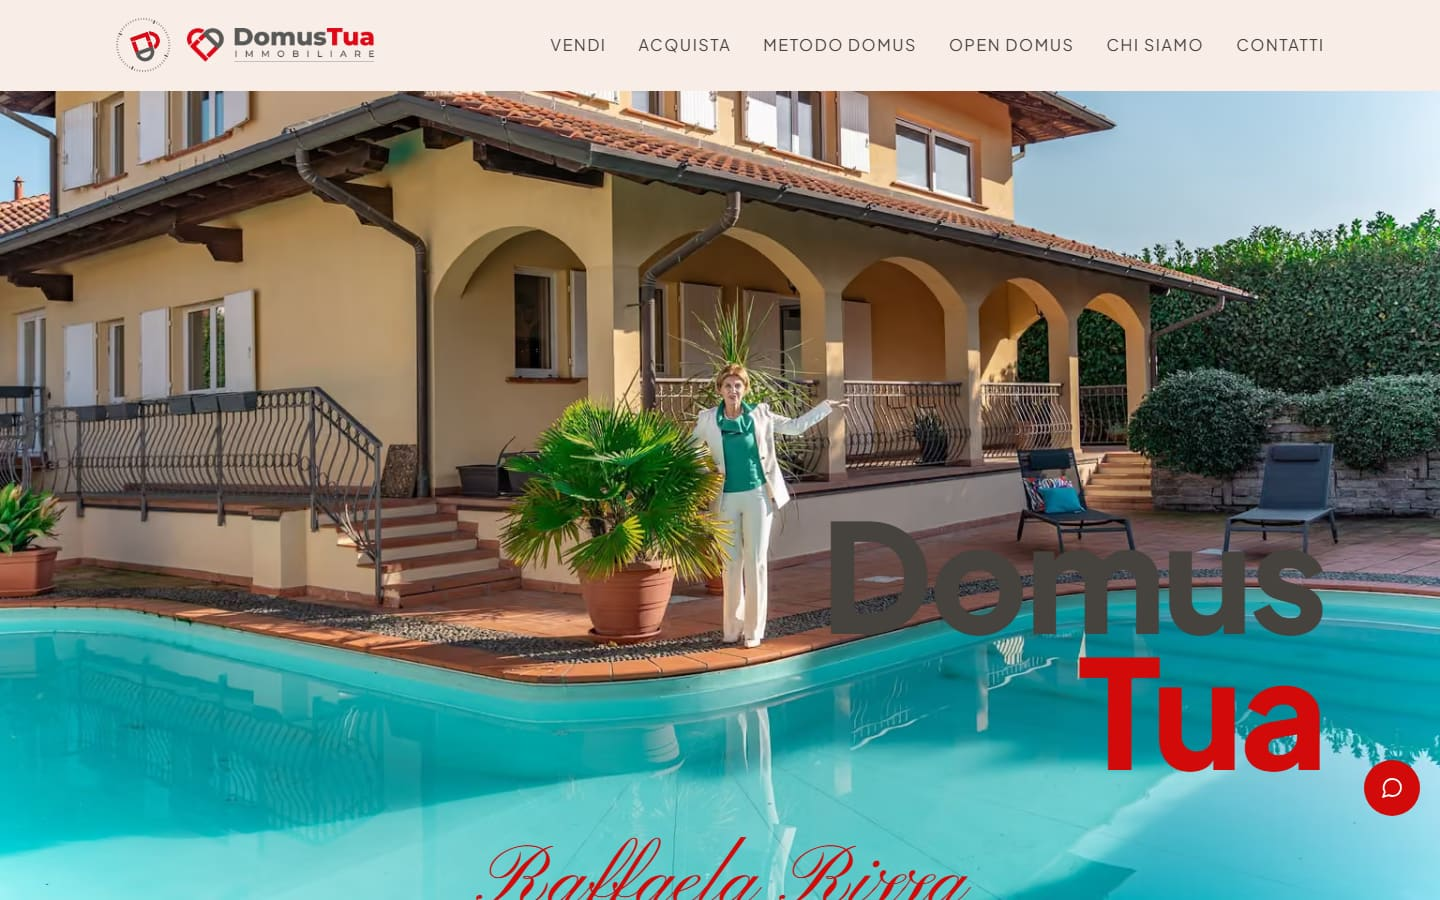
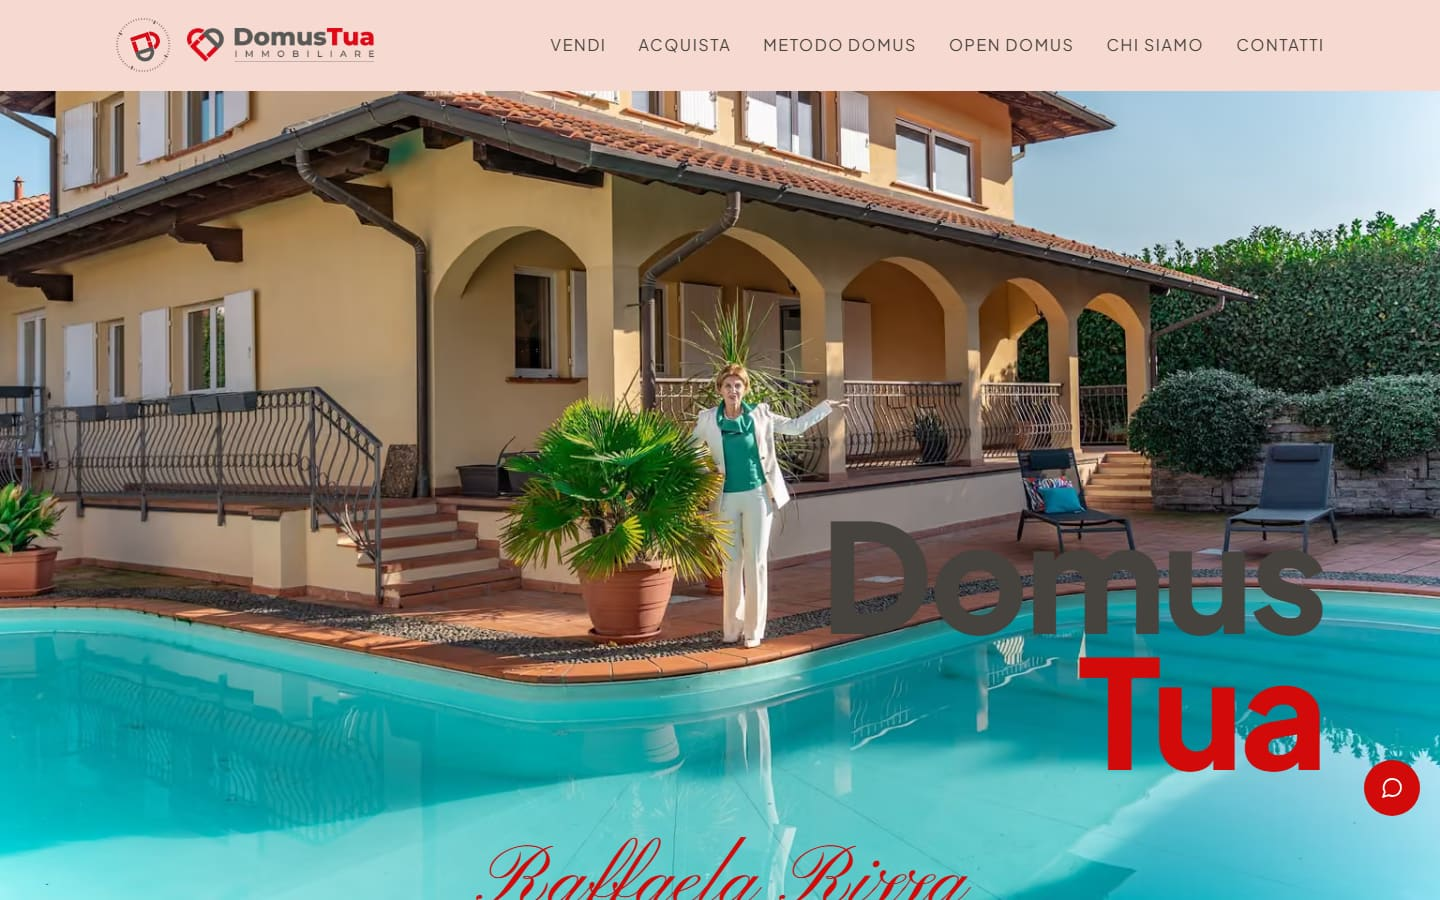
feat(carta): la carta rosa tramonto e le scritte sopra le foto nel grigio del lockup (A51, A56)
Alberto, 22 settembre 2026, pomeriggio, guardando il dev server: «lo sfondo è
ancora bianco, quando avevamo detto di metterlo sul rosa tramonto» (A51, le
parole di stamattina: «rendilo lievemente sul rosso rosa, tipo tramonto ma
opaco e piu chiaro di un tramonto») e «le scritte bianche sopra le immagini,
mettile di colore grigio, come quello della hero della scritta "domus"» (A56).

A51, la carta. Tre passi in un pomeriggio: #f9ede8 («manca ancora lo sfondo
del colore»), #f9e6e0 («è ancora troppo bianco»), e infine `--color-cream`
#f6d9d0, rosa pesca opaco e chiaro (inchiostro 7,3:1), con la famiglia:
`--color-cream-deep` #f2cfc5, `--color-paper` #fdf1ec, `--color-line` #e9c9c0;
`--color-stone` scende a #625d56 (5:1, la pietra di prima faceva 4,3). Sul
rosa il rosso vivo #d20a0a fa 4,2:1 sui testi piccoli, e a11y.spec lo diceva su
ogni rotta: gli occhielli, le etichette e i link a 16 px, i corpi e i numeri
non display in rosso e il bottone a testo rosso passano al rosso cupo #a30707
(6,1:1), che è già il rosso dei testi piccoli sull'avorio (PRODUCT.md); titoli,
«Tua», corsivi e bottoni pieni restano nel rosso vivo. Con la carta cambiano
`--background`, il `themeColor` di layout.tsx, l'avorio di tinte.mjs,
cielo.mjs e foto-alte.mjs (tinte.json rigenerato: i due attici e /cookie ora
dichiarano l'avorio, sotto il cancello di D123 — tinte.test segue il numero),
il sidecar .impeccable/design.json, tinte.test e le costanti degli e2e (a11y,
[…]

diff --git a/e2e/a28.spec.ts b/e2e/a28.spec.ts
@@ -21,9 +21,11 @@ const INK = "rgb(70, 66, 61)";
 /** La grafite del lead (`--color-graphite`) ha lo stesso valore dell'inchiostro. */
 const GRAFITE = "rgb(70, 66, 61)";
 const ROSSO = "rgb(210, 10, 10)";
-const CREAM_DEEP = "rgb(246, 233, 225)";
+/** A51 (22 set.): sulla carta rosa pesca l'occhiello (16 px) è nel rosso cupo, il rosso dei testi piccoli sull'avorio. */
+const ROSSO_CUPO = "rgb(163, 7, 7)";
+const CREAM_DEEP = "rgb(242, 207, 197)";
 /** L'avorio della carta, in RGB: i pixel sotto le scritte devono essere questo, ±3 per canale (A46). */
-const AVORIO_RGB = [249, 237, 232] as const;
+const AVORIO_RGB = [246, 217, 208] as const;
 /** D124: dove `tinte.json` dichiara l'avorio, la pagina spedisce un token. A46 (21 set. 2026): col
     cielo mascherato il riquadro si vede attraverso la foto, quindi il token è il FONDO PAGINA. */
 const TOKEN_ALTA = "--color-cream";
@@ -254,7 +256,7 @@ test.describe("la testa", () => {
           expect(g.solid!.top, `${lang}: il bottone non sta in basso`).toBeGreaterThan(g.h1!.bottom);
           // I colori della rivista (A46), e nessuna ombra (D184).
           expect(g.stili.h1?.color, `${lang}: l'H1 non è inchiostro`).toBe(INK);
-          expect(g.stili.eyebrow?.color, `${lang}: l'occhiello non è rosso`).toBe(ROSSO);
+          expect(g.stili.eyebrow?.color, `${lang}: l'occhiello non è nel rosso cupo (A51)`).toBe(ROSSO_CUPO);
           expect(g.stili.lead?.color, `${lang}: il lead non è grafite`).toBe(GRAFITE);
           if (tinte[rotta].trattamento === "testa" || g.stili.script) expect(g.stili.script?.color, `${lang}: la calligrafia non è rossa`).toBe(ROSSO);
           for (const z of ["h1", "eyebrow", "lead", "ghost", "script", "solid"] as const) if (g.stili[z]) expect(g.stili[z]!.shadow, `${lang}: ${z} porta un'ombra (D184)`).toBe("none");
@@ -275,7 +277,7 @@ test.describe("la testa", () => {
           // Il WebP col cielo trasparente dove c'è (A46), altrimenti la sorgente.
           expect(g.currentSrc ?? "", `${lang}: la foto montata non è quella di tinte.json`).toContain(encodeURIComponent(tinte[rotta].cielo.file ?? tinte[rotta].file));
           // I fondi: il riquadro è la carta, la scatola della foto porta il placeholder (la tinta alta, D125), lo spazio sopra è nudo.
-          expect(g.fondoRiquadro, `${lang}: il riquadro non è la carta (A46)`).toBe(rgb("#f9ede8"));
+          expect(g.fondoRiquadro, `${lang}: il riquadro non è la carta (A46)`).toBe(rgb("#f6d9d0"));
           expect(g.fondoFoto, `${lang}: la scatola della foto non porta la tinta di attesa (D125)`).toBe(await tintaAttesa(page, rotta));
           expect(g.fondoStrato, `${lang}: lo strato ha un fondo: colorerebbe lo spazio sotto la foto (A48)`).toBe("rgba(0, 0, 0, 0)");
           expect(g.fondoPagina, `${lang}: lo spazio sopra la foto ha un fondo (A48: niente velo)`).toBe("rgba(0, 0, 0, 0)");
@@ -632,7 +634,7 @@ test.describe("sotto lg", () => {
       // I colori della rivista anche qui (A46).
       expect(g.stili.h1?.color).toBe(INK);
       expect(g.stili.lead?.color).toBe(GRAFITE);
-      expect(g.stili.eyebrow?.color).toBe(ROSSO);
+      expect(g.stili.eyebrow?.color).toBe(ROSSO_CUPO);
       expect(g.sizes).toBe(SIZES_TESTA);
       await page.evaluate(() => window.scrollTo({ top: 300, behavior: "instant" }));
       await page.waitForTimeout(400);
@@ -692,7 +694,7 @@ test.describe("senza JS e con moto ridotto", () => {
         expect(g.corridoi).toBe(0);
         expect(g.stili.h1!.color).toBe(INK);
         expect(g.stili.lead!.color).toBe(GRAFITE);
-        expect(g.fondoRiquadro).toBe(rgb("#f9ede8"));
+        expect(g.fondoRiquadro).toBe(rgb("#f6d9d0"));
         expect(Math.abs(g.blocco!.top)).toBeLessThanOrEqual(1);
         await page.evaluate(() => window.scrollTo({ top: 500, behavior: "instant" }));
         await page.waitForTimeout(400);
@@ -991,11 +993,11 @@ test.describe("le tinte", () => {
     expect(scatola, "la scatola della foto non prende la tinta alta").toBe(await tintaAttesa(page, "/vendi"));
     expect(await page.locator("[data-testa-strato]").first().evaluate((el) => getComputedStyle(el).backgroundColor), "lo strato ha un fondo: colorerebbe lo spazio sotto la foto (A48)").toBe("rgba(0, 0, 0, 0)");
     const riquadro = await page.locator("[data-dive-zoom]").first().evaluate((el) => getComputedStyle(el).backgroundColor);
-    expect(riquadro, "il riquadro della testa non è la carta (A46)").toBe(rgb("#f9ede8"));
+    expect(riquadro, "il riquadro della testa non è la carta (A46)").toBe(rgb("#f6d9d0"));
     // Su un interno la tinta misurata (D123) resta sullo strato e la carta resta avorio.
     await goto("/chi-siamo");
     expect(await page.locator("[data-testa-foto-box]").first().evaluate((el) => getComputedStyle(el).backgroundColor)).toBe(await tintaAttesa(page, "/chi-siamo"));
-    expect(await page.locator("[data-dive-zoom]").first().evaluate((el) => getComputedStyle(el).backgroundColor)).toBe(rgb("#f9ede8"));
+    expect(await page.locator("[data-dive-zoom]").first().evaluate((el) => getComputedStyle(el).backgroundColor)).toBe(rgb("#f6d9d0"));
     await goto("/vendi");
     const modulo = await page.evaluate(() => {
       const el = document.createElement("div");
@@ -1005,7 +1007,7 @@ test.describe("le tinte", () => {
       el.remove();
       return c;
     });
-    expect(modulo).toBe(rgb("#f6e9e1"));
+    expect(modulo).toBe(rgb("#f2cfc5"));
   });
 });
 

diff --git a/app/components/motion/ChiusuraFoto.tsx b/app/components/motion/ChiusuraFoto.tsx
@@ -18,7 +18,14 @@
    clip-path). Il clip si scrive con `clipSides` (spigolo vivo, C01). Con reduced-motion, sotto la
    soglia di motion e senza JS non succede niente: la foto finisce dritta, la pagina è completa.
    Il componente non ha DOM suo: uno span nascosto per trovare la testa che lo monta (PageHeroTesta
-   resta server, senza hook: a28-fallback.test). */
+   resta server, senza hook: a28-fallback.test).
+   A47 + A53 (Alberto, 22 set. 2026, pomeriggio, con lo screenshot del fondo della facciata: «qua, la
+   foto, come nelle altre pagine con le foto a schermo intero no bg, deve rimpicciolirsi alla fine»):
+   lo monta anche la finestra di Open Domus in home (OpenDomus.tsx, dentro la cornice dopo il
+   capitolo): lì lo strato è la cornice `.dt-od_cornice`, la scatola della foto `.dt-od_window` e lo
+   spazio sopra il capitolo `.dt-od_content`; la sezione porta `data-od` e `data-sopra="foto"`. La
+   scatola sta dentro lo stage sticky del corridoio, ma la chiusura parte quando lo stage è già
+   sganciato e a scala 1, e il clip sta sulla scatola, che non è antenata di nulla di sticky. */
 
 import { useRef } from "react";
 import { gsap, useGSAP } from "../../lib/motion/gsap";
@@ -36,13 +43,19 @@ export default function ChiusuraFoto() {
 
   useGSAP(
     () => {
-      const testa = ref.current?.closest<HTMLElement>("[data-testa]") ?? null;
-      const strato = testa?.querySelector<HTMLElement>("[data-testa-strato]") ?? null;
-      const foto = testa?.querySelector<HTMLElement>("[data-testa-foto-box]") ?? null;
-      const sopra = testa?.querySelector<HTMLElement>(".dt-testa_sopra") ?? null;
+      const testa = ref.current?.closest<HTMLElement>("[data-testa], [data-od]") ?? null;
+      // A47: nella finestra di Open Domus (`data-od`) le tre scatole hanno i nomi della finestra.
+      const od = testa?.hasAttribute("data-od") ?? false;
+      const strato = testa?.querySelector<HTMLElement>(od ? ".dt-od_cornice" : "[data-testa-strato]") ?? null;
+      const foto = testa?.querySelector<HTMLElement>(od ? ".dt-od_window" : "[data-testa-foto-box]") ?? null;
+      const sopra = testa?.querySelector<HTMLElement>(od ? ".dt-od_content" : ".dt-testa_sopra") ?? null;
       if (!testa || !strato || !foto) return;
       const mm = gsap.matchMedia();
-      mm.add(MQ.motionOk, () => {
+      // Nella finestra (A47) sotto lg il clip della scatola è dell'otturatore di spec §3.10 (OpenDomus.tsx,
+      // ramo `phone`): due padroni sullo stesso clip-path sono uno di troppo, e la chiusura lì non si arma.
+      mm.add({ motionOk: MQ.motionOk, lg: MQ_LG }, (ctx) => {
+        const c = ctx.conditions as { motionOk: boolean; lg: boolean };
+        if (!c.motionOk || (od && !c.lg)) return;
         const cornice = () => (window.matchMedia(MQ_LG).matches ? CORNICE_LG : window.matchMedia(MQ.desktop).matches ? CORNICE_TAB : CORNICE_PHONE);
         // Lo spazio sopra sta SULLA foto (da lg, con la banda scura): la chiusura parte quando il suo fondo passa la
         // cima del viewport, così nessuna scritta bianca resta sulla carta scoperta dal ritaglio. Altrimenti parte

diff --git a/e2e/home.spec.ts b/e2e/home.spec.ts
@@ -1171,6 +1171,23 @@ test.describe("la finestra di Open Domus", () => {
       expect(dopo.winH / dopo.vh, "la finestra non è alta più di due schermi").toBeGreaterThan(2);
       expect(dopo.cTop, "il capitolo non posa sulla metà bassa della foto (A47)").toBeGreaterThan(dopo.winTop + 0.5 * dopo.winH - 2);
       expect(dopo.cBottom, "il capitolo esce dalla foto").toBeLessThanOrEqual(dopo.winBottom + 2);
+      // A53 sulla finestra (Alberto, 22 set. 2026, pomeriggio: «qua, la foto, come nelle altre pagine con le foto a
+      // schermo intero no bg, deve rimpicciolirsi alla fine»): con una coda libera di almeno un quarto di viewport
+      // sotto il capitolo, quando il fondo della foto arriva al 10 % del viewport la scatola sta nella cornice 8/22.
+      const coda = dopo.winBottom - dopo.cBottom;
+      if (coda >= 0.25 * dopo.vh) {
+        const fineFoto = await page.evaluate(() => document.querySelector("#open-domus .dt-od_window")!.getBoundingClientRect().bottom + window.scrollY);
+        await wheelTo(page, Math.round(fineFoto - 0.1 * geo.vh));
+        await page.waitForTimeout(1200);
+        const clip = await page.locator("#open-domus .dt-od_window").evaluate((el) => getComputedStyle(el).clipPath);
+        const lati = clip.match(/inset\(([^)]*)\)/)?.[1].split(/\s+/).map((v) => parseFloat(v)) ?? [];
+        expect(lati.length, `a fine coda la facciata non è ritagliata: ${clip}`).toBeGreaterThan(0);
+        const [alto, destra] = [lati[0], lati[1] ?? lati[0]];
+        expect(Math.abs(alto - 8), `cornice sopra ${alto} %`).toBeLessThanOrEqual(1);
+        expect(Math.abs(destra - 22), `cornice a destra ${destra} %`).toBeLessThanOrEqual(1);
+      } else {
+        expect(await page.locator("#open-domus .dt-od_window").evaluate((el) => getComputedStyle(el).clipPath), "coda corta: nessun clip").toBe("none");
+      }
       // A56 (22 set., pomeriggio): nel grigio del lockup, senza ombra, non più in bianco.
       const occhiello = page.locator("#open-domus .dt-od_content .eyebrow").first();
       await expect(occhiello).toHaveCSS("color", "rgb(70, 66, 61)");
@@ -1206,7 +1223,7 @@ test.describe("la finestra di Open Domus", () => {
       const i = (Math.round(y * k) * info.width + Math.round(x * k)) * info.channels;
       return [data[i], data[i + 1], data[i + 2]];
     };
-    const avorio = (p: number[]) => Math.abs(p[0] - 249) <= 3 && Math.abs(p[1] - 237) <= 3 && Math.abs(p[2] - 232) <= 3;
+    const avorio = (p: number[]) => Math.abs(p[0] - 246) <= 3 && Math.abs(p[1] - 217) <= 3 && Math.abs(p[2] - 208) <= 3;
     // A schermo intero lo stage sticky può stare qualche decina di px sopra il bordo (a 1440×900 la
     // finestra comincia a −84): si campiona la parte VISIBILE della finestra. Il cielo trasparente della
     // facciata è sottile in cima (le punte dei cipressi ai lati stanno a 0,121 dell'altezza della foto).

diff --git a/app/lib/__tests__/tinte.test.ts b/app/lib/__tests__/tinte.test.ts
@@ -58,7 +58,7 @@ const tinte = JSON.parse(leggi("app/lib/motion/tinte.json")) as Record<string, V
 /* I pavimenti di §4.3: assoluto = 4,5:1 con ink #46423d («nessuna sezione scura» detto con una
    cifra); di lavoro = 4,5:1 col rosso cupo #a30707 e con «Menu» grafite sulla barra. */
 const PAVIMENTI = { assoluto: 0.4241, lavoro: 0.5329 };
-const AVORIO = "#f9ede8";
+const AVORIO = "#f6d9d0";
 
 /* D124: il token che la pagina spedisce dove il JSON dichiara l'avorio, col suo valore in
    globals.css. A46: è il FONDO PAGINA, perché col cielo trasparente il riquadro non deve
@@ -215,7 +215,7 @@ describe("la tinta del placeholder e i dati dell'inquadratura (D187, §4)", () =
   });
 
   test("i pavimenti di chiarezza, sul valore che la pagina spedisce: nessuna sezione scura (§4.3, D124)", () => {
-    assert.equal(HEX_TOKEN_ALTA, "#f9ede8", "il token dell'avorio (A46: il fondo pagina) non vale più quel che valeva");
+    assert.equal(HEX_TOKEN_ALTA, "#f6d9d0", "il token dell'avorio (A46: il fondo pagina) non vale più quel che valeva");
     const scuro = lumaY(daHex("#aeaeae"));
     for (const [rotta, v] of Object.entries(tinte)) {
       const y = spedita(v.alta).y;
@@ -467,7 +467,16 @@ describe("il cielo mascherato delle foto alte (A46)", () => {
       const v = tinte[rotta];
       assert.deepEqual(v.cielo, { file: null, linea: 0, cima: 0 }, `${rotta}: è un interno`);
       assert.equal(existsSync(join(ROOT, "public", v.file.replace(/\.jpg$/, "-cielo.webp"))), false, `${rotta}: un WebP del cielo per un interno`);
-      assert.notEqual(v.alta.hex, "avorio", `${rotta}: senza cielo la tinta resta misurata (D123)`);
+      // D123: senza cielo la tinta è quella misurata, salvo che la sua distanza di valore dall'avorio stia sotto
+      // il cancello (CANCELLO_ALTA): allora la rotta dichiara l'avorio col numero. Con la carta rosa di A51
+      // (#f6d9d0, più scura del #f9f5ef di prima) i due attici stanno a 1,48 e dichiarano l'avorio: è la regola,
+      // non un'eccezione, e qui si pretende solo che il verdetto segua il numero.
+      assert.equal(
+        v.alta.hex === "avorio",
+        v.alta.avorio < CANCELLO_ALTA,
+        `${rotta}: la tinta alta dichiara ${v.alta.hex} con una distanza dall'avorio di ${v.alta.avorio}:1 (cancello ${CANCELLO_ALTA})`,
+      );
+      if (v.alta.hex === "avorio") assert.match(v.alta.misurato ?? "", /^#[0-9a-f]{6}$/, `${rotta}: manca la tinta misurata accanto all'avorio dichiarato`);
     }
     for (const rotta of ["/privacy", "/cookie"]) assert.deepEqual(tinte[rotta].cielo, { file: null, linea: 0, cima: 0 }, `${rotta}: i legali sono fermi`);
   });

diff --git a/app/globals.css b/app/globals.css
@@ -54,11 +54,11 @@
      paragrafo editoriale» — la gerarchia la fanno peso e misura. */
   --color-ink: #46423d;
   --color-graphite: #46423d;
-  --color-stone: #6b665f;
-  --color-line: #e8d8d0;
-  --color-cream: #f9ede8;
-  --color-cream-deep: #f6e9e1;
-  --color-paper: #fff9f6;
+  --color-stone: #625d56;
+  --color-line: #e9c9c0;
+  --color-cream: #f6d9d0;
+  --color-cream-deep: #f2cfc5;
+  --color-paper: #fdf1ec;
 
   /* Darks caldi (bordeaux/espresso) — profondità nelle sezioni scure, mai grigio/nero piatto */
   --color-espresso: #1c1512;
@@ -209,7 +209,7 @@
 }
 
 :root {
-  --background: #f9ede8;
+  --background: #f6d9d0;
   --foreground: #46423d;
 }
 
@@ -812,7 +812,10 @@ blockquote * {
   font-weight: 500;
   letter-spacing: 0.12em;
   text-transform: uppercase;
-  color: var(--color-red);
+  /* A51 (Alberto, 22 set. 2026: «è ancora troppo bianco»): sulla carta rosa pesca #f6d9d0 il rosso vivo
+     #d20a0a scende a 4,2:1 sui 16 px dell'occhiello; il rosso cupo, che è già il rosso dei testi piccoli
+     sull'avorio (PRODUCT.md), regge 6,1:1. Il rosso vivo resta ai titoli, al corsivo e ai bottoni. */
+  color: var(--color-red-dark);
 }
 
 .eyebrow::before {
@@ -1991,11 +1994,23 @@ html[data-hero-intro="short"] :is([data-hero-char], [data-hero-tchar], [data-her
 }
 
 /* --- cta: contorno rosso → pieno --- */
+/* A51 (Alberto, 22 set. 2026: «è ancora troppo bianco»): sulla carta rosa pesca #f6d9d0 il rosso vivo
+   #d20a0a regge 4,2:1, sotto il 4,5:1 dei testi normali (a11y.spec su ogni rotta): i testi PICCOLI in
+   rosso — etichette e link a 16 px, corpi, numeri non display, e il bottone a testo rosso — passano al
+   rosso cupo #a30707 (6,1:1), che è già il rosso dei testi piccoli sull'avorio (PRODUCT.md). Titoli,
+   «Tua», corsivi e bottoni pieni restano nel rosso vivo: sono grandi, e 3:1 basta. */
+.text-ui.text-red,
+.text-body.text-red,
+:is(.text-ui, .text-body) .text-red,
+.tnum.text-red:not(.font-display),
+a.text-red {
+  color: var(--color-red-dark);
+}
 .dt-btn--cta {
   padding: var(--btn-py) var(--btn-px);
-  color: var(--color-red);
+  color: var(--color-red-dark);
   background: transparent;
-  border: 1.5px solid var(--color-red);
+  border: 1.5px solid var(--color-red-dark);
 }
 .dt-btn--cta:hover,
 .dt-btn--cta:focus-visible {

diff --git a/app/lib/__tests__/finestra.test.ts b/app/lib/__tests__/finestra.test.ts
@@ -148,6 +148,14 @@ describe("dove vive la finestra", () => {
     const contenuto = t.indexOf('className="dt-od_content dt-chapter"', finestraBox);
     const pista = t.indexOf('className="dt-od_run"', contenuto);
     assert.ok(cornice > -1 && finestraBox > cornice && contenuto > finestraBox && pista > contenuto, "il capitolo non sta nella cornice dopo la foto (A47)");
+    // A53 sulla finestra (22 set., pomeriggio: «qua, la foto … deve rimpicciolirsi alla fine»): ChiusuraFoto dopo il
+    // capitolo, dentro la cornice, e ChiusuraFoto sa leggere la finestra (data-od: cornice, scatola, capitolo).
+    const chiusura = t.indexOf("<ChiusuraFoto />", contenuto);
+    assert.ok(chiusura > contenuto && chiusura < pista, "ChiusuraFoto non è montata nella cornice dopo il capitolo (A53 sulla finestra)");
+    assert.match(t, /import ChiusuraFoto from "\.\/motion\/ChiusuraFoto"/);
+    const cf = soloCodice(leggi("app/components/motion/ChiusuraFoto.tsx"));
+    assert.match(cf, /closest<HTMLElement>\("\[data-testa\], \[data-od\]"\)/, "ChiusuraFoto non riconosce la finestra (data-od)");
+    for (const s of [".dt-od_cornice", ".dt-od_window", ".dt-od_content"]) assert.ok(cf.includes(s), `ChiusuraFoto non legge ${s}`);
     assert.match(t, /<section[^>]*className="dt-od bg-cream"[^>]*data-sopra="foto"/, "la section della finestra non dichiara data-sopra=\"foto\" (A47)");
     const css = leggi("app/globals.css").replace(/\/\*[\s\S]*?\*\//g, " ");
     const titolo = /\.dt-od_titolo\s*\{[^}]*\}/.exec(css)?.[0] ?? "";

diff --git a/app/components/OpenDomus.tsx b/app/components/OpenDomus.tsx
@@ -4,6 +4,7 @@ import { useEffect, useRef, type ReactNode } from "react";
 import Image from "next/image";
 import Reveal from "./Reveal";
 import RevealGroup from "./motion/RevealGroup";
+import ChiusuraFoto from "./motion/ChiusuraFoto";
 import SplitTitle from "./motion/SplitTitle";
 import Lead from "./motion/Lead";
 import { useCorridor } from "./motion/useCorridor";
@@ -518,6 +519,11 @@ function Finestra({ villaAlt, titolo, locale, children }: { villaAlt: string; ti
               >
                 {children}
               </RevealGroup>
+              {/* A53 sulla finestra (Alberto, 22 set. 2026, pomeriggio: «qua, la foto, come nelle altre pagine con le
+                  foto a schermo intero no bg, deve rimpicciolirsi alla fine»): a fine coda la facciata si ritira
+                  nella cornice della cartolina mentre sale, come le teste. Si arma solo con una coda libera di
+                  almeno un quarto di viewport sotto il capitolo (a 1024 il capitolo arriva quasi al travertino). */}
+              <ChiusuraFoto />
             </div>
           </div>
         </div>

diff --git a/app/case/[slug]/PropertyDetail.tsx b/app/case/[slug]/PropertyDetail.tsx
@@ -435,7 +435,9 @@ export default function PropertyDetail({
 
         <div className="mt-8 flex flex-col gap-4 sm:flex-row sm:items-end sm:justify-between">
           <div>
-            <p className="text-ui font-semibold uppercase tracking-[0.08em] text-red">{p.zone}</p>
+            {/* A51 (22 set. 2026): sulla carta rosa pesca il rosso vivo scende sotto 4,5:1 sui 16 px: il rosso cupo,
+                come gli occhielli. */}
+            <p className="text-ui font-semibold uppercase tracking-[0.08em] text-red-dark">{p.zone}</p>
             <h1 className="mt-3 max-w-[20ch] font-display text-d1 balance">{p.title}</h1>
           </div>
           <span className="tnum font-display text-d2 text-ink">{p.price}</span>

diff --git a/e2e/a11y.spec.ts b/e2e/a11y.spec.ts
@@ -98,7 +98,7 @@ for (const path of PAGES) {
       for (const sel of [".dt-testa_blocco h1", ".dt-testa_blocco p.lead"]) {
         const c = await contrastoSullaCarta(page, sel);
         expect(c.rapporto, `${path} ${sel}: rgb(${c.testo}) su rgb(${c.fondo}) fa ${c.rapporto.toFixed(2)}:1, sotto 4,5:1`).toBeGreaterThanOrEqual(4.5);
-        for (let i = 0; i < 3; i++) expect(Math.abs(c.fondo[i] - [249, 237, 232][i]), `${path} ${sel}: sotto il testo non c'è la carta (rgb(${c.fondo}))`).toBeLessThanOrEqual(3);
+        for (let i = 0; i < 3; i++) expect(Math.abs(c.fondo[i] - [246, 217, 208][i]), `${path} ${sel}: sotto il testo non c'è la carta (rgb(${c.fondo}))`).toBeLessThanOrEqual(3);
       }
     }
   });

diff --git a/e2e/preloader-corta.spec.ts b/e2e/preloader-corta.spec.ts
@@ -163,7 +163,7 @@ test("su /acquista alla prima entrata suona la corta senza sagoma, su avorio pro
   expect(r.sagoma, "la sagoma della home non va sulle pagine interne").toBe("none");
   expect(r.fondo, "il fondo espresso non va nella corta").toBe("none");
   expect(r.pannello, "il pannello della corta è ancora espresso").not.toBe("rgb(28, 21, 18)");
-  expect(r.pannello, "il pannello della corta non è --color-cream-deep").toBe("rgb(246, 233, 225)");
+  expect(r.pannello, "il pannello della corta non è --color-cream-deep").toBe("rgb(242, 207, 197)");
 
   await expect
     .poll(async () => (await leggi(page)).tCaduto, { timeout: 15_000, message: "la corta non si è chiusa da sola" })

diff --git a/e2e/segno.spec.ts b/e2e/segno.spec.ts
@@ -70,7 +70,7 @@ const coloriSegno = (page: Page) =>
     };
   });
 const INK = "rgb(70, 66, 61)"; // --color-ink
-const CREAM = "rgb(249, 237, 232)"; // --color-cream
+const CREAM = "rgb(246, 217, 208)"; // --color-cream
 const MONOGRAMMA = ["rgb(89, 90, 88)", "rgb(227, 7, 22)"]; // #595a58 e #e30716, MarkDomus.tsx (C23)
 
 test.beforeEach(async ({ page }) => {

diff --git a/app/layout.tsx b/app/layout.tsx
@@ -157,7 +157,7 @@ export const viewport: Viewport = {
   width: "device-width",
   initialScale: 1,
   viewportFit: "cover",
-  themeColor: "#f9ede8",
+  themeColor: "#f6d9d0",
 };
 
 const jakarta = Plus_Jakarta_Sans({
